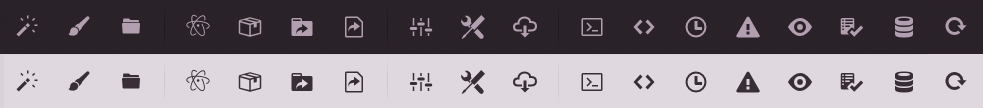
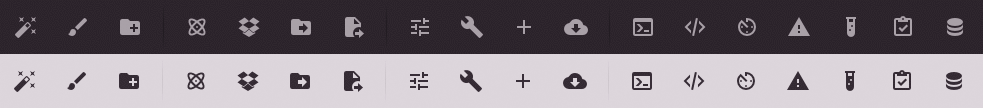
update screenshot, description

diff --git a/README.md b/README.md
@@ -63,6 +63,7 @@ Buttons from left to right:
 * Reveal File³
 * Show Settings
 * Open Your Config
+* Install Packages/Themes
 * Update Packages/Themes
 * Toggle Developer Tools
 * Re-open file in Dev Mode⁶ / Open in Dev Mode
@@ -76,7 +77,7 @@ Buttons from left to right:
 ¹⁾ provided by [package-generator](https://atom.io/packages/package-generator)  
 ²⁾ provided by [open-package](https://atom.io/packages/open-package)  
 ³⁾ provided by [browse](https://atom.io/packages/browse)  
-⁴⁾ provided by [timecop](https://atom.io/packages/timecop)  
+⁴⁾ provided by [timecop](https://atom.io/packages/timecop) or [timecop-2](https://atom.io/packages/timecop-2)  
 ⁵⁾ provided by [deprecation-cop](https://atom.io/packages/deprecation-cop)  
 ⁶⁾ provided by [open-in-developer-mode](https://atom.io/packages/open-in-developer-mode)  
 ⁷⁾ provided by [satisfy-dependencies](https://atom.io/packages/satisfy-dependencies)  
